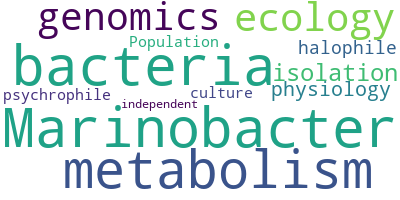
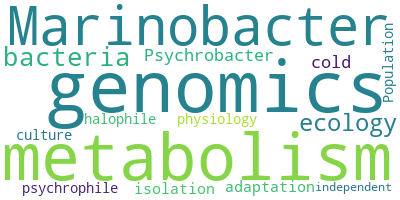
AyaladelRioetal2010

diff --git a/papers/Bacterial-genera/Psychrobacter/AyaladelRioetal2010.md b/papers/Bacterial-genera/Psychrobacter/AyaladelRioetal2010.md
@@ -1,0 +1,27 @@
+06/20/19
+## Authors:
+Ayala-del-Rio, H.L., Chain, P.S., Grzymski, J.J., Ponder, M.A., Ivanova, N., Bergholz, P.W., Bartolo, G.D.,Hauser, L., Land, M., Bakermans, C., Rodrigues, D., Klappenbach, J., Zarka, D., Larimer, F., Richardson, P., Murray, A., Thomashow, M., and J.M. Tiedje
+## Title:
+The Genome Sequence of *Psychrobacter arcticus* 273-4, a Psychroactive Siberian Permafrost Bacterium, Reveals Mechanisms for Adaptation to Low-Temperature Growth
+## Keywords:
+Psychrobacter, genomics, metabolism, cold-adaptation
+## Geographic Coverage
+Siberia, Permafrost
+## Field Dates:
+N/A
+## Significance:
+First genome sequence of a cold-adapted, terrestrial bacterium *Psychrobacter arcticus* 273-4
+
+## Notes:
+*Psychrobacter arcticus* 273-4 displays genomic traits characteristic of cold-adaptation including increased protein flexibiltity, simple metabolism off of acetate (ubiquitous and abundant C source), and fatty acid unsaturation.
+
+*Psychrobacter arcticus* 273-4 can grow in a range of –10 to 28˚C.
+
+*Psychrobacter arcticus* 273-4 cannot sustain metabolism solely using carbohydrates.
+
+No signs of obvious HGT are seen in *Psychrobacter arcticus* 273-4, but viral transduction appears to have played a role in shaping its genome
+
+Concluding hypotheses
+* *Psychrobacter arcticus* 273-4 is genomically adapted to the cold
+* It can grow well on acetate in a defined minimal medium
+* Viruses, but not lateral transfer, likely played a significant role in structuring the genome

diff --git a/README.md b/README.md
@@ -15,6 +15,8 @@ Notes (author, year, journal in file header) on readings.  Top of each note docu
 
 ### Psychrobacter 
  
+* [AyaladelRioetal2010 - The Genome Sequence of *Psychrobacter arcticus* 273-4, a Psychroactive Siberian Permafrost Bacterium, Reveals Mechanisms for Adaptation to Low-Temperature Growth](https://github.com/zscooper/ReadingList/tree/master/papers/Bacterial-genera/Psychrobacter/AyaladelRioetal2010.md) 
+     * First genome sequence of a cold-adapted, terrestrial bacterium *Psychrobacter arcticus* 273-4 
 
 ### Marinobacter 
  
